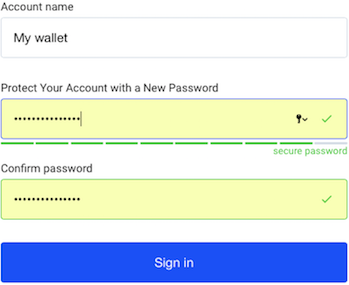
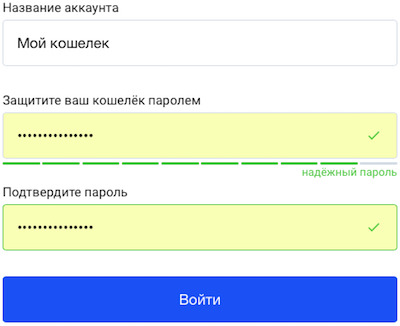
Updates

diff --git a/ru/waves-client/account-management/restore-an-account.md b/ru/waves-client/account-management/restore-an-account.md
@@ -1,32 +1,30 @@
-# Restore Your Account
+# Восстановление доступа к аккаунту.
 
-You can use either online version of the client, or standalone version for Mac, PC or Linux. All versions support automatic update!
-Also downloads are available from the official site - https://wavesplatform.com/product
+Вы можете использовать онлайн или настольную версию приложения на Mac, PC или Linux. Все версии поддерживают автоматическое обновление. Загрузки доступны на официальном сайте - https://wavesplatform.com/product
 
-Choose and open up your Waves wallet.
+Выберите и откройте свой Waves кошелек.
 
-Click on **Restore account** on the main page.
+Нажмите **Восстановить кошелёк**.
 
-![](/_assets/account_restoring_01.png)
+![](/ru/_assets/account_restoring_01.png)
 
-You will be forwarded to the following page.
-Copy and paste or type your SEED into the blank text field.
-The Waves wallet will automatically generate the corresponding address right below the text field.
+Скопируйте или впишите вручную слова Seed фразы в текстовое поле.
+Waves кошелек автоматически сгенерирует соответствующий адрес в строке под текстовым полем. Если вы введете Seed фразу верно, то в этой строке появится ваш Waves адрес.
 
-![](/_assets/account_restoring_02.png)
+Затем нажмите **Продолжить**.
 
-If you entered the correct SEED, it will display your Waves address.
-Choose account name and wallet password then repeat the password.
+![](/ru/_assets/account_restoring_02.png)
 
-To finish the process, click on **Sign in**
+Придумайте пароль для защиты вашего кошелька: введите его в первое поле и подтвердите его во втором поле.
+После этого нажмите **Войти**.  
 
-![](/_assets/account_restoring_003.png)
+![](/ru/_assets/account_restoring_003.png)
 
-At the final stage, read carefully the conditions and if you are agree put the checkboxes.
-Click on **Confirm and Begin**.
+Далее внимательно прочитайте условия и в знак согласия поставьте отметку напротив соответствующего условия.
+Затем нажмите **Подтвердить и начать**.
 
-![](/_assets/account_restoring_04.png)
+![](/ru/_assets/account_restoring_04.png)
 
-If you have done all of the above, you are forwarded to the user interface
+После выполнения этих нехитрых действий перед вами предстанет интерфейс Waves кошелька.
 
-![](/_assets/account_restoring_05.png)
+![](/ru/_assets/account_restoring_05.png)
